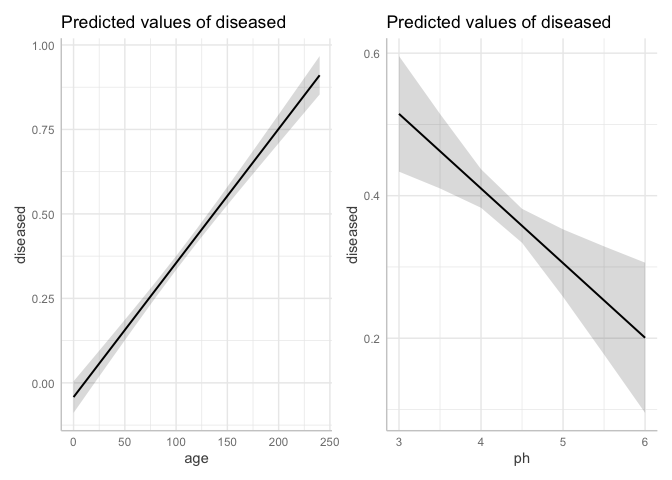
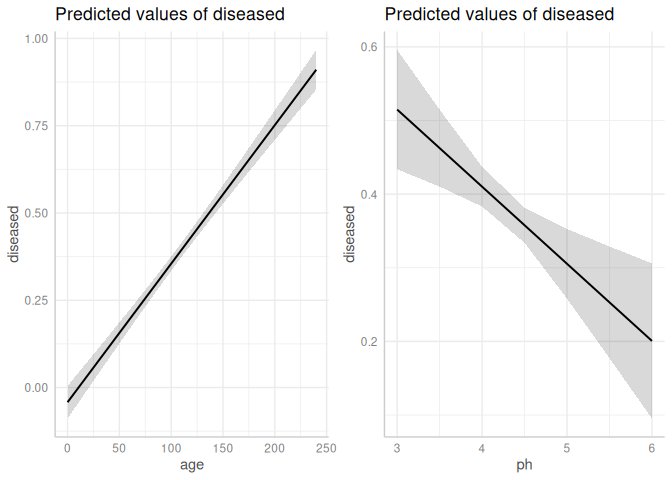
test

diff --git a/README.md b/README.md
@@ -53,6 +53,8 @@ We are using the following libraries:
 ``` r
 library(tidyverse)  # Data science
 library(ggplot2)    # Visualization
+library(ggpubr)     # Multiple plots
+library(patchwork)  # Multiple plots
 library(boot)       # For logit() and inv.logit()
 
 # GLM itself is part of the stats package, which is loaded at start up
@@ -274,9 +276,7 @@ summary(lm_multiple_2)
 p1 <- ggeffects::ggeffect(lm_multiple_2, terms = "age") %>% plot()
 p2 <- ggeffects::ggeffect(lm_multiple_2, terms = "ph") %>% plot()
 
-library(patchwork)
-
-p1 + p2
+ggpubr::ggarrange(plotlist = list(p1, p2), ncol = 2)
 ```
 
 ![](README_files/figure-gfm/unnamed-chunk-2-3.png)<!-- -->
@@ -549,7 +549,7 @@ coef(glm_stand_by_hand)
 ```
 
     ##   (Intercept)    standmixed 
-    ##  3.400754e-17 -1.061544e+00
+    ## -7.850462e-17 -1.061544e+00
 
 ``` r
 # Backtransformation gives us the same group means as the GLM.
@@ -616,7 +616,8 @@ p1 <- d %>% ggplot(aes(y = logit, x = age)) + geom_point() +
 
 p2 <- d %>% ggplot(aes(y = inv.logit(logit), x = age)) + geom_point() + geom_function(fun = function (x) {inv.logit(coef(glm_age_by_hand)["(Intercept)"] + coef(glm_age_by_hand)["age"] * x)})
 
-p1 + p2
+# p1 + p2 # Altervative patchwork
+ggpubr::ggarrange(plotlist = list(p1, p2), ncol = 2)
 ```
 
 ![](README_files/figure-gfm/unnamed-chunk-10-1.png)<!-- -->
